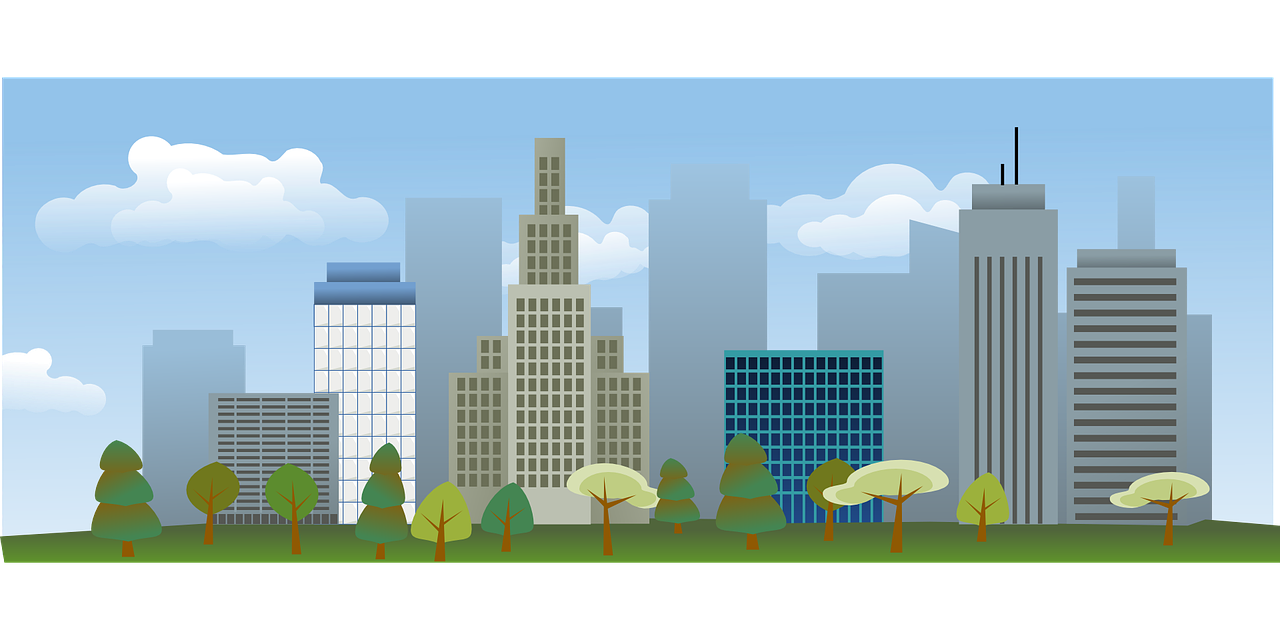
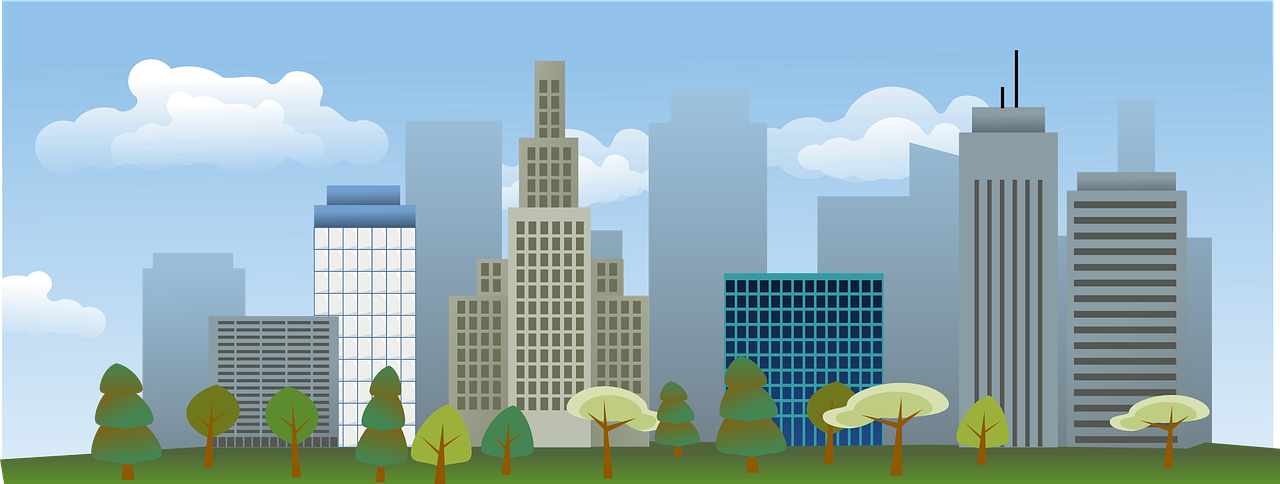
modification+ajout background

diff --git a/ORgame/or_game_app_v4/lib/BuildingConstruction/view/ScreenBuildingConstructionGame.dart b/ORgame/or_game_app_v4/lib/BuildingConstruction/view/ScreenBuildingConstructionGame.dart
@@ -24,7 +24,6 @@ class BuildingConstructionGameState extends State<ScreenBuildingConstructionGame
   String difficulty;
   int level;
   BuildingConstructionController BCC;
-  bool successfulDrop = false;
   int score = 0;
 
   BuildingConstructionGameState(this.difficulty,this.level,this.BCC);
@@ -40,10 +39,18 @@ class BuildingConstructionGameState extends State<ScreenBuildingConstructionGame
           Container(
             width : MediaQuery.of(context).size.width * 0.65,
             height: MediaQuery.of(context).size.height,
-            color : Colors.brown,
+            //color : Colors.brown,
             child: ListView(
+                reverse: true,
               scrollDirection: Axis.vertical,
                 children : [Container(
+                    decoration: BoxDecoration(
+                        image: DecorationImage(
+                          image: AssetImage("assets/images/backgrounds/bgDistributionService.png"),
+                          fit: BoxFit.cover,
+                          alignment: Alignment.bottomCenter,
+                        )
+                    ),
                     height: 50*BCC.getBCM.getDescriptionOfBuildings.getMaxHeight.toDouble(),
                     alignment: Alignment.center,
                     child: ListView.builder(
@@ -63,7 +70,7 @@ class BuildingConstructionGameState extends State<ScreenBuildingConstructionGame
           Container(
               width : MediaQuery.of(context).size.width * 0.35,
               height: MediaQuery.of(context).size.height,
-              color : Colors.pinkAccent,
+              color : Colors.white70,
               child : DragTarget<Client>(
                 builder: (BuildContext context, List<Client> incoming, List rejected) {
                   return StaggeredGridView.countBuilder(
@@ -123,64 +130,6 @@ class BuildingConstructionGameState extends State<ScreenBuildingConstructionGame
           ),
         ]
     );
-    /*return Container(
-      decoration: BoxDecoration(
-          color: Colors.teal
-      ),
-      child: Column (
-          children: [
-            Align(
-              alignment: Alignment.centerRight,
-              child: Padding(
-                  padding: EdgeInsets.all(5.0),
-                  child: ElevatedButton(
-                    child: Text('Return'),
-                    style: Style.returnButtonText,
-                    onPressed: () {
-                      Navigator.of(context).push( //Navigateur vers widget
-                        MaterialPageRoute(builder: (context)=>
-                            ScreenDistriServLevel(difficulty),
-                        ),
-                      );
-                    },
-                  )
-              ),
-            ),
-            Row(
-                mainAxisAlignment: MainAxisAlignment.spaceEvenly,
-                children: [
-                  Container(
-                      width : MediaQuery.of(context).size.width * 0.70,
-                      height: MediaQuery.of(context).size.height * 0.75,
-                      color : Colors.brown,
-                      child: Align(
-                          child : _buildDragTarget()
-                      )
-                  ),
-                  Container(
-                      width : MediaQuery.of(context).size.width * 0.30,
-                      height: MediaQuery.of(context).size.height * 0.75,
-                      color : Colors.pinkAccent,
-                      child: StaggeredGridView.countBuilder(
-                        padding: const EdgeInsets.all(8),
-                        crossAxisSpacing: 5.0,
-                        mainAxisSpacing: 1.0,
-                        crossAxisCount: 3,
-                        staggeredTileBuilder: (int index) =>
-                        new StaggeredTile.count(1, DSC.DSM.clients[(DSC.DSM.get_clients_indexes_in_immeuble(0))[index]].nb_etages),
-                        itemCount: DSC.DSM.nb_client_in(0),
-                        itemBuilder: (BuildContext context, int index) =>
-                            Align(
-                                child: Client_Draggable(DSC.DSM.clients[(DSC.DSM.get_clients_indexes_in_immeuble(0))[index]])
-                            ),
-                      )
-                  ),
-                ]
-            ),
-            Text('Score $score',style : TextStyle(fontSize: 18, color: Colors.black, fontWeight: FontWeight.bold, decoration: TextDecoration.none))
-          ]
-      ),
-    );*/
   }
 
   Widget _buildDragTarget(int index_building) {
@@ -213,7 +162,6 @@ class BuildingConstructionGameState extends State<ScreenBuildingConstructionGame
       onAccept: (data) {
         print("Accept $data");
         setState(() {
-          //successfulDrop = true;
           BCC.getBCM.assignClientToBuilding(data.getIndex,index_building);
         });
       },
@@ -259,7 +207,7 @@ class Client_Icon extends StatelessWidget {
                   height: 50,
                   width : 50,
                   decoration: BoxDecoration(
-                      color: Colors.red,
+                      color: Colors.deepOrangeAccent,
                       border: Border.all(
                         color: Colors.black,
                         width: 1,

diff --git a/ORgame/or_game_app_v4/lib/view/ScreenMainMenu.dart b/ORgame/or_game_app_v4/lib/view/ScreenMainMenu.dart
@@ -8,7 +8,7 @@ class ScreenMenuPrincipal extends StatelessWidget {
     return Container(
       decoration: BoxDecoration(
           image: DecorationImage(
-              image: AssetImage("assets/images/backgrounds/city2.jpg"),
+              image: AssetImage("assets/images/backgrounds/city3.png"),
               fit: BoxFit.cover)),
       child : Row(
         mainAxisAlignment: MainAxisAlignment.spaceAround,
@@ -19,8 +19,8 @@ class ScreenMenuPrincipal extends StatelessWidget {
                 child : Align(
                     alignment : Alignment.bottomLeft,
                     child : Padding (
-                        padding: EdgeInsets.all(16.0),
-                        child : Image.asset('assets/images/professeur.png', scale : 10.0)
+                        padding: EdgeInsets.only(left: 16.0),
+                        child : Image.asset('assets/images/John.png', scale : 10.0)
                     )
                 )
             )

diff --git a/ORgame/or_game_app_v4/lib/view/ScreenHome.dart b/ORgame/or_game_app_v4/lib/view/ScreenHome.dart
@@ -11,7 +11,7 @@ class ScreenHome extends StatelessWidget {
     return Container( // Container principal
       decoration: BoxDecoration(  // background
         image: DecorationImage(
-          image: AssetImage("assets/images/backgrounds/city2.jpg"), // image du background
+          image: AssetImage("assets/images/backgrounds/city3.png"), // image du background
           fit: BoxFit.cover //couvre tout l'ecran
         )
       ),

diff --git a/ORgame/or_game_app_v4/lib/BuildingConstruction/view/ScreenBuildingConstructionLevel.dart b/ORgame/or_game_app_v4/lib/BuildingConstruction/view/ScreenBuildingConstructionLevel.dart
@@ -19,7 +19,7 @@ class ScreenBuildingConstructionLevel extends StatelessWidget {
     return Container(
         decoration: BoxDecoration(
             image: DecorationImage(
-                image: AssetImage("assets/images/backgrounds/city2.jpg"),
+                image: AssetImage("assets/images/backgrounds/city3.png"),
                 fit: BoxFit.cover)
         ),
         alignment: Alignment.center,

diff --git a/ORgame/or_game_app_v4/lib/BuildingConstruction/view/ScreenBuildingConstructionStage.dart b/ORgame/or_game_app_v4/lib/BuildingConstruction/view/ScreenBuildingConstructionStage.dart
@@ -13,7 +13,7 @@ class ScreenBuildingConstructionStage extends StatelessWidget {
     return Container(
         decoration: BoxDecoration(
             image: DecorationImage(
-                image: AssetImage("assets/images/backgrounds/city2.jpg"),
+                image: AssetImage("assets/images/backgrounds/city3.png"),
                 fit: BoxFit.cover)
         ),
         alignment: Alignment.center,
